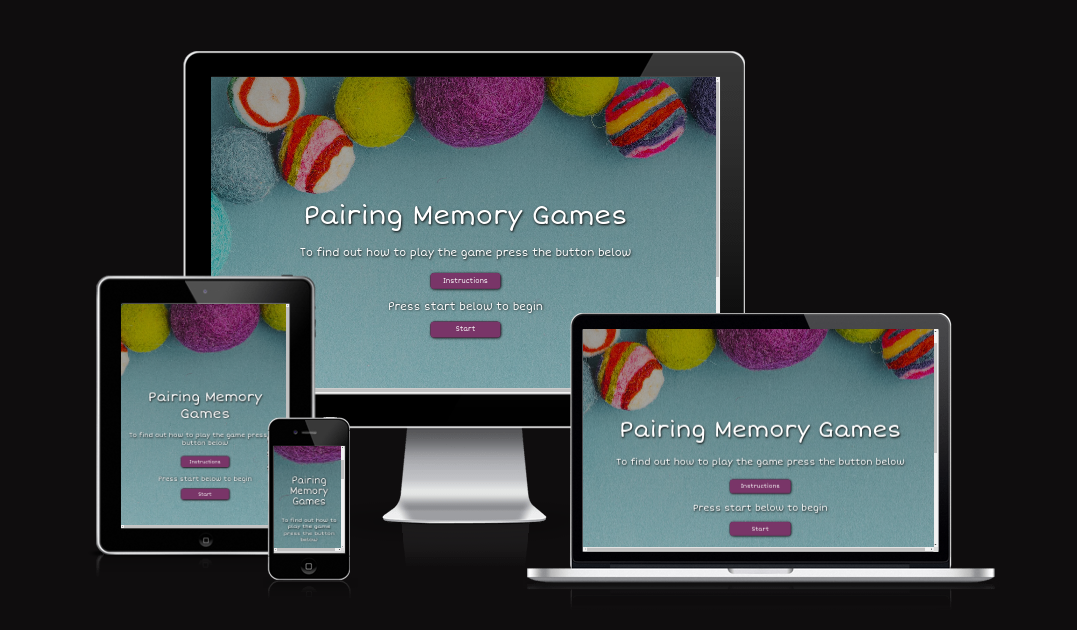
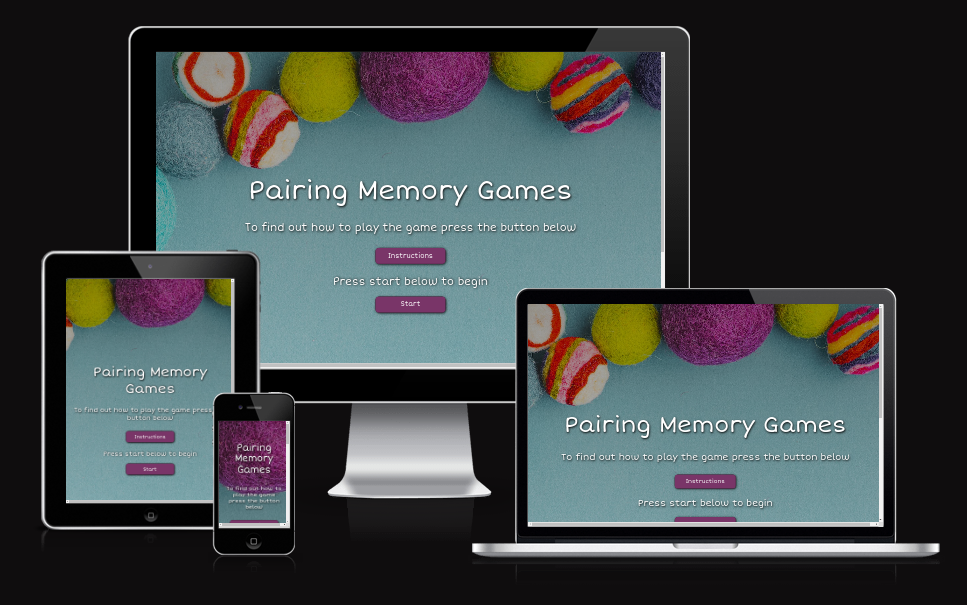
Update responsive images in README.md

diff --git a/README.md b/README.md
@@ -1,6 +1,6 @@
 # KIDS MEMORY GAMES PROJECT
 
-![screenshot](docs/readme/responsive.png) ![screenshot](docs/readme/responsiveGames.png)
+![screenshot](docs/readme/responsive.png) ![screenshot](docs/readme/games.png)
 
 This is my first javascript project. I decieded to make the game from scratch rather than following a tutorial or a you-tube.com video so that I could gain as much knowledge about the javascript language and learn as I coded.  
 I have built a card memory game that consits of three game styles, farm, space and cars. I chose these three themes as my little boy has a interest in all of them and I thought it would be fun to give him a choice when he played it. It would also be a good way to help with his memory skills and making 3 games would test my knowledge of using the DOM and what I have learnt from the Javascript modules in the code Institute course I am currently studying.
